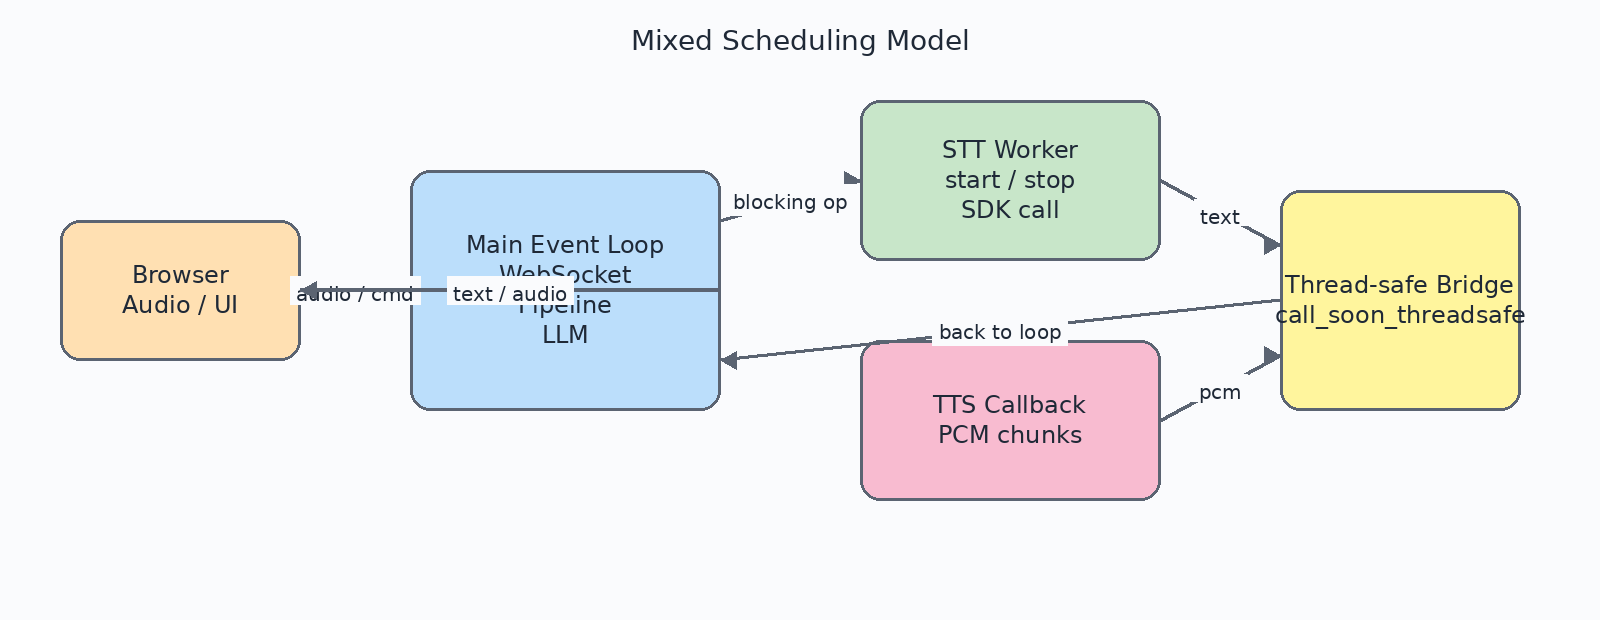
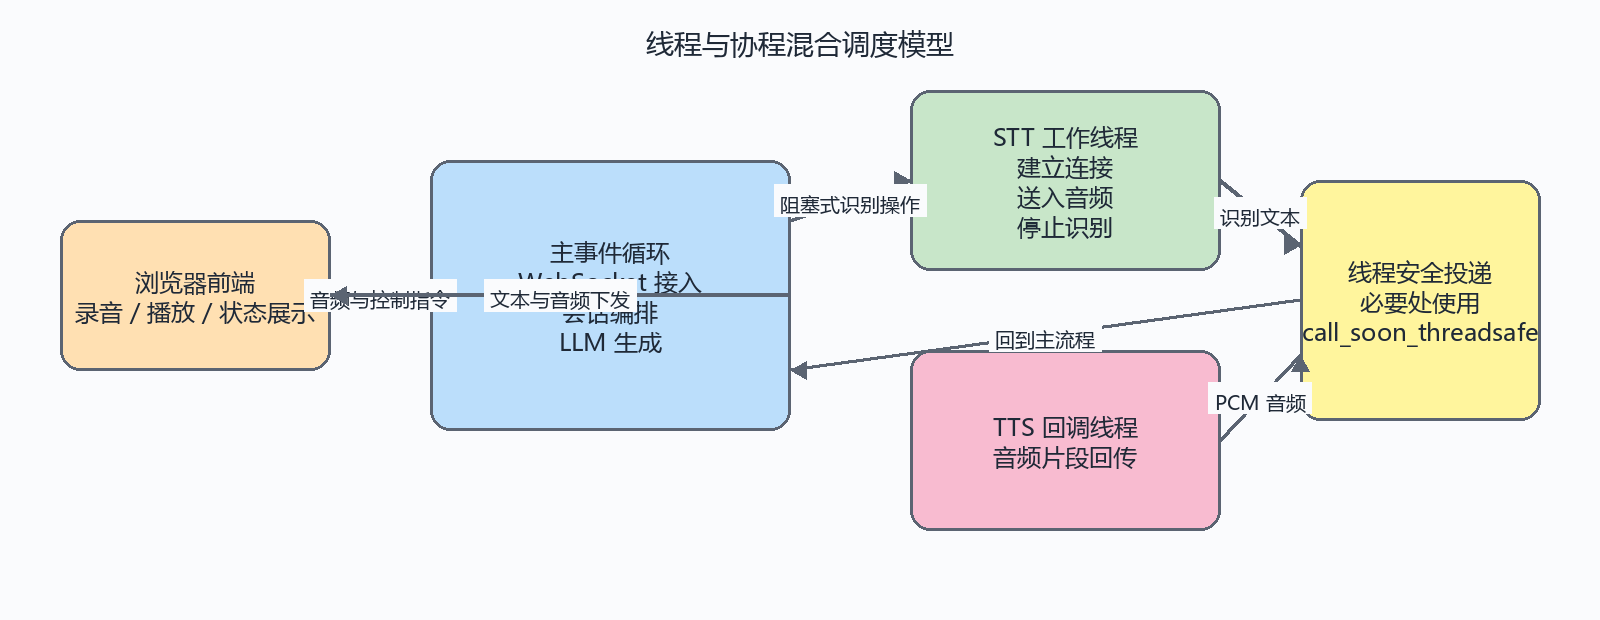
docs: 重绘混合调度模型图

Changed region(s): [[0.0312, 0.1226, 0.9688, 0.8581], [0.375, 0.0306, 0.625, 0.0919]]

diff --git a/scripts/generate_additional_thesis_figures.py b/scripts/generate_additional_thesis_figures.py
@@ -8,7 +8,21 @@ BASE_DIR = Path(__file__).resolve().parent.parent
 FIG_DIR = BASE_DIR / "thesis" / "figures"
 FIG_DIR.mkdir(parents=True, exist_ok=True)
 
-FONT_PATH = "/usr/share/fonts/truetype/dejavu/DejaVuSans.ttf"
+
+def _pick_font() -> str:
+    candidates = [
+        "/mnt/c/Windows/Fonts/msyh.ttc",
+        "/mnt/c/Windows/Fonts/simhei.ttf",
+        "/mnt/c/Windows/Fonts/simsun.ttc",
+        "/usr/share/fonts/truetype/dejavu/DejaVuSans.ttf",
+    ]
+    for path in candidates:
+        if Path(path).exists():
+            return path
+    raise FileNotFoundError("未找到可用字体文件")
+
+
+FONT_PATH = _pick_font()
 TITLE_FONT = ImageFont.truetype(FONT_PATH, 28)
 BOX_FONT = ImageFont.truetype(FONT_PATH, 24)
 SMALL_FONT = ImageFont.truetype(FONT_PATH, 20)
@@ -76,20 +90,20 @@ def save(img, name):
 def fig_3_4():
     img = Image.new("RGB", (1600, 620), BG)
     draw = ImageDraw.Draw(img)
-    title(draw, "Mixed Scheduling Model", 1600)
+    title(draw, "线程与协程混合调度模型", 1600)
 
-    box(draw, (60, 220, 300, 360), "Browser\nAudio / UI", "#FFE0B2")
-    box(draw, (410, 170, 720, 410), "Main Event Loop\nWebSocket\nPipeline\nLLM", "#BBDEFB")
-    box(draw, (860, 100, 1160, 260), "STT Worker\nstart / stop\nSDK call", "#C8E6C9")
-    box(draw, (860, 340, 1160, 500), "TTS Callback\nPCM chunks", "#F8BBD0")
-    box(draw, (1280, 190, 1520, 410), "Thread-safe Bridge\ncall_soon_threadsafe", "#FFF59D")
+    box(draw, (60, 220, 330, 370), "浏览器前端\n录音 / 播放 / 状态展示", "#FFE0B2")
+    box(draw, (430, 160, 790, 430), "主事件循环\nWebSocket 接入\n会话编排\nLLM 生成", "#BBDEFB")
+    box(draw, (910, 90, 1220, 270), "STT 工作线程\n建立连接\n送入音频\n停止识别", "#C8E6C9")
+    box(draw, (910, 350, 1220, 530), "TTS 回调线程\n音频片段回传", "#F8BBD0")
+    box(draw, (1300, 180, 1540, 420), "线程安全投递\n必要处使用\ncall_soon_threadsafe", "#FFF59D")
 
-    arrow(draw, (300, 290), (410, 290), "audio / cmd")
-    arrow(draw, (720, 220), (860, 180), "blocking op")
-    arrow(draw, (1160, 180), (1280, 245), "text")
-    arrow(draw, (1160, 420), (1280, 355), "pcm")
-    arrow(draw, (1280, 300), (720, 360), "back to loop")
-    arrow(draw, (720, 290), (300, 290), "text / audio")
+    arrow(draw, (330, 295), (430, 295), "音频与控制指令")
+    arrow(draw, (790, 220), (910, 180), "阻塞式识别操作")
+    arrow(draw, (1220, 180), (1300, 245), "识别文本")
+    arrow(draw, (1220, 440), (1300, 355), "PCM 音频")
+    arrow(draw, (1300, 300), (790, 370), "回到主流程")
+    arrow(draw, (790, 295), (330, 295), "文本与音频下发")
 
     save(img, "fig_3_4_sched_model.png")
 